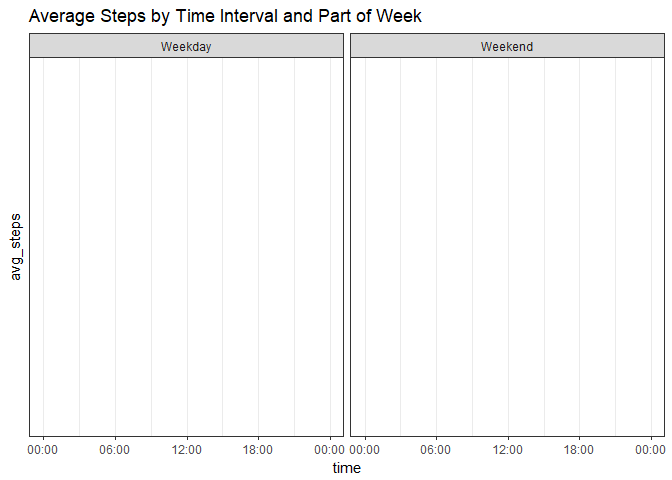
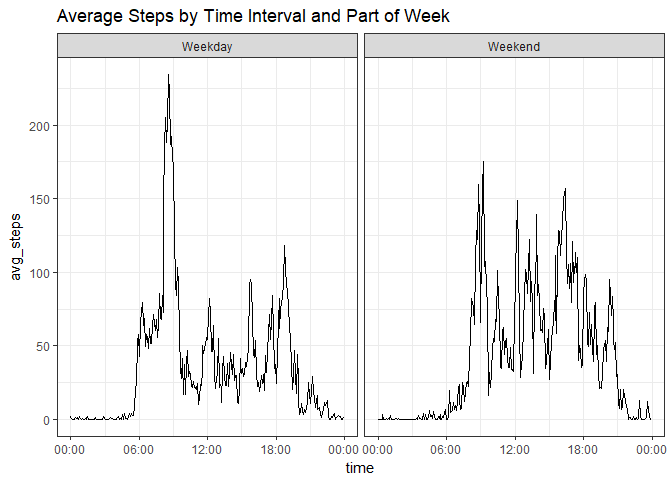
fixing minor issues

diff --git a/PA1_template.html b/PA1_template.html
@@ -126,6 +126,31 @@ $(document).ready(function () {
 
 <div id="loading-and-preprocessing-the-data" class="section level2">
 <h2>Loading and preprocessing the data</h2>
+<pre class="r"><code>knitr::opts_chunk$set(echo = TRUE)
+library(tidyverse)</code></pre>
+<pre><code>## -- Attaching packages ------------------------------------------------------------- tidyverse 1.2.1 --</code></pre>
+<pre><code>## v ggplot2 2.2.1     v purrr   0.2.4
+## v tibble  1.4.2     v dplyr   0.7.4
+## v tidyr   0.7.2     v stringr 1.2.0
+## v readr   1.1.1     v forcats 0.2.0</code></pre>
+<pre><code>## -- Conflicts ---------------------------------------------------------------- tidyverse_conflicts() --
+## x dplyr::filter() masks stats::filter()
+## x dplyr::lag()    masks stats::lag()</code></pre>
+<pre class="r"><code>library(lubridate)</code></pre>
+<pre><code>## 
+## Attaching package: 'lubridate'</code></pre>
+<pre><code>## The following object is masked from 'package:base':
+## 
+##     date</code></pre>
+<pre class="r"><code>library(scales)</code></pre>
+<pre><code>## 
+## Attaching package: 'scales'</code></pre>
+<pre><code>## The following object is masked from 'package:purrr':
+## 
+##     discard</code></pre>
+<pre><code>## The following object is masked from 'package:readr':
+## 
+##     col_factor</code></pre>
 <pre class="r"><code>unzip(&quot;activity.zip&quot;)
 
 activity &lt;- read_csv('activity.csv')</code></pre>
@@ -137,7 +162,7 @@ activity &lt;- read_csv('activity.csv')</code></pre>
 ## )</code></pre>
 <pre class="r"><code>file.remove('activity.csv') ##clean up</code></pre>
 <pre><code>## [1] TRUE</code></pre>
-<p>Let’s make more detailed time variables. Since the interval variable is just the number of minutes, I am going to combine the date and interval fields into a complete datetime variable. While we are messing around with dates, I am going to extract a prettier time of day field and add a weekday variable.</p>
+<p>Let’s make more detailed time variables. I am going to turn the interval column into a more attractive date field and extract the day of the week from the date column.</p>
 <pre class="r"><code>activity &lt;- activity %&gt;%
   mutate(time = gsub('^([0-9]{2})([0-9]+)$', '\\1:\\2', 
                      str_pad(interval,4,'left','0')),
@@ -147,26 +172,26 @@ activity &lt;- read_csv('activity.csv')</code></pre>
 <pre><code>## # A tibble: 20 x 5
 ##    steps date       interval time  weekday  
 ##    &lt;int&gt; &lt;date&gt;        &lt;int&gt; &lt;chr&gt; &lt;chr&gt;    
-##  1     0 2012-10-24      415 04:15 Wednesday
-##  2    15 2012-11-22     1450 14:50 Thursday 
-##  3     0 2012-10-15     1625 16:25 Monday   
-##  4    NA 2012-11-10      635 06:35 Saturday 
-##  5     0 2012-10-16       35 00:35 Tuesday  
-##  6    NA 2012-10-08      325 03:25 Monday   
-##  7    NA 2012-11-04     1515 15:15 Sunday   
-##  8     0 2012-11-08     1055 10:55 Thursday 
-##  9     0 2012-11-02      230 02:30 Friday   
-## 10     0 2012-10-27     2335 23:35 Saturday 
-## 11     0 2012-10-02     1245 12:45 Tuesday  
-## 12     0 2012-10-03      320 03:20 Wednesday
-## 13    NA 2012-11-04      715 07:15 Sunday   
-## 14     0 2012-11-22     2220 22:20 Thursday 
-## 15   203 2012-10-28      805 08:05 Sunday   
-## 16    NA 2012-11-30     1105 11:05 Friday   
-## 17     0 2012-10-11     1720 17:20 Thursday 
-## 18   413 2012-10-03      600 06:00 Wednesday
-## 19    NA 2012-11-09     2230 22:30 Friday   
-## 20     0 2012-11-24      720 07:20 Saturday</code></pre>
+##  1   168 2012-10-05     1240 12:40 Friday   
+##  2     0 2012-11-03      955 09:55 Saturday 
+##  3     0 2012-10-22     2305 23:05 Monday   
+##  4     0 2012-11-25     2150 21:50 Sunday   
+##  5   404 2012-11-06      700 07:00 Tuesday  
+##  6     0 2012-10-14     1810 18:10 Sunday   
+##  7     0 2012-11-25     1735 17:35 Sunday   
+##  8     0 2012-10-04       55 00:55 Thursday 
+##  9     0 2012-11-19      515 05:15 Monday   
+## 10     0 2012-11-13      340 03:40 Tuesday  
+## 11     0 2012-11-21     1540 15:40 Wednesday
+## 12     0 2012-10-26      930 09:30 Friday   
+## 13     0 2012-10-22      345 03:45 Monday   
+## 14     0 2012-11-18       45 00:45 Sunday   
+## 15    NA 2012-11-04      840 08:40 Sunday   
+## 16     0 2012-10-19      155 01:55 Friday   
+## 17    NA 2012-11-04     1755 17:55 Sunday   
+## 18     0 2012-10-14     1950 19:50 Sunday   
+## 19     0 2012-10-30     2150 21:50 Tuesday  
+## 20     0 2012-10-19       20 00:20 Friday</code></pre>
 </div>
 <div id="what-is-mean-total-number-of-steps-taken-per-day" class="section level2">
 <h2>What is mean total number of steps taken per day?</h2>
@@ -284,10 +309,10 @@ med_steps &lt;- median(daily_tot_steps$total_steps)</code></pre>
 
 weekend_ts_data &lt;- activity %&gt;%
   group_by(part_of_week, time) %&gt;%
-  summarise(avg_steps = mean(steps)) %&gt;%
+  summarise(avg_steps = mean(steps, na.rm = TRUE)) %&gt;%
   ungroup
 
-weekend_ts_data$time &lt;- strptime(weekend_ts_data$time, &quot;%H:%M&quot;, tz = 'UTC')
+weekend_ts_data$time &lt;- as_datetime(strptime(weekend_ts_data$time, &quot;%H:%M&quot;, tz = 'UTC'))
 
 ggplot(weekend_ts_data, aes(time, avg_steps)) +
   geom_line() +
@@ -295,7 +320,7 @@ ggplot(weekend_ts_data, aes(time, avg_steps)) +
   scale_x_datetime(date_labels = &quot;%H:%M&quot;) +
   theme_bw() +
   ggtitle('Average Steps by Time Interval and Part of Week')</code></pre>
[2 lines of base64/hex data omitted]
 <p>It looks like there may be a slight difference between the step patterns during the weekdays compared to weekends. The weekend results are volatile, but it would appear that the steps are higher on average and evenly distributed throughout the middle of the day. During the week, the steps appear to be lower on average and are more concentrated early in the day.</p>
 </div>
 

diff --git a/PA1_template.md b/PA1_template.md
@@ -10,6 +10,63 @@ output:
 ## Loading and preprocessing the data
 
 
+```r
+knitr::opts_chunk$set(echo = TRUE)
+library(tidyverse)
+```
+
+```
+## -- Attaching packages ------------------------------------------------------------- tidyverse 1.2.1 --
+```
+
+```
+## v ggplot2 2.2.1     v purrr   0.2.4
+## v tibble  1.4.2     v dplyr   0.7.4
+## v tidyr   0.7.2     v stringr 1.2.0
+## v readr   1.1.1     v forcats 0.2.0
+```
+
+```
+## -- Conflicts ---------------------------------------------------------------- tidyverse_conflicts() --
+## x dplyr::filter() masks stats::filter()
+## x dplyr::lag()    masks stats::lag()
+```
+
+```r
+library(lubridate)
+```
+
+```
+## 
+## Attaching package: 'lubridate'
+```
+
+```
+## The following object is masked from 'package:base':
+## 
+##     date
+```
+
+```r
+library(scales)
+```
+
+```
+## 
+## Attaching package: 'scales'
+```
+
+```
+## The following object is masked from 'package:purrr':
+## 
+##     discard
+```
+
+```
+## The following object is masked from 'package:readr':
+## 
+##     col_factor
+```
 
 
 ```r
@@ -35,7 +92,7 @@ file.remove('activity.csv') ##clean up
 ## [1] TRUE
 ```
 
-Let's make more detailed time variables. Since the interval variable is just the number of minutes, I am going to combine the date and interval fields into a complete datetime variable.  While we are messing around with dates, I am going to extract a prettier time of day field and add a weekday variable.
+Let's make more detailed time variables. I am going to turn the interval column into a more attractive date field and extract the day of the week from the date column.
 
 
 ```r
@@ -55,26 +112,26 @@ activity %>% sample_n(20)
 ## # A tibble: 20 x 5
 ##    steps date       interval time  weekday  
 ##    <int> <date>        <int> <chr> <chr>    
-##  1     0 2012-10-24      415 04:15 Wednesday
-##  2    15 2012-11-22     1450 14:50 Thursday 
-##  3     0 2012-10-15     1625 16:25 Monday   
-##  4    NA 2012-11-10      635 06:35 Saturday 
-##  5     0 2012-10-16       35 00:35 Tuesday  
-##  6    NA 2012-10-08      325 03:25 Monday   
-##  7    NA 2012-11-04     1515 15:15 Sunday   
-##  8     0 2012-11-08     1055 10:55 Thursday 
-##  9     0 2012-11-02      230 02:30 Friday   
-## 10     0 2012-10-27     2335 23:35 Saturday 
-## 11     0 2012-10-02     1245 12:45 Tuesday  
-## 12     0 2012-10-03      320 03:20 Wednesday
-## 13    NA 2012-11-04      715 07:15 Sunday   
-## 14     0 2012-11-22     2220 22:20 Thursday 
-## 15   203 2012-10-28      805 08:05 Sunday   
-## 16    NA 2012-11-30     1105 11:05 Friday   
-## 17     0 2012-10-11     1720 17:20 Thursday 
-## 18   413 2012-10-03      600 06:00 Wednesday
-## 19    NA 2012-11-09     2230 22:30 Friday   
-## 20     0 2012-11-24      720 07:20 Saturday
+##  1   168 2012-10-05     1240 12:40 Friday   
+##  2     0 2012-11-03      955 09:55 Saturday 
+##  3     0 2012-10-22     2305 23:05 Monday   
+##  4     0 2012-11-25     2150 21:50 Sunday   
+##  5   404 2012-11-06      700 07:00 Tuesday  
+##  6     0 2012-10-14     1810 18:10 Sunday   
+##  7     0 2012-11-25     1735 17:35 Sunday   
+##  8     0 2012-10-04       55 00:55 Thursday 
+##  9     0 2012-11-19      515 05:15 Monday   
+## 10     0 2012-11-13      340 03:40 Tuesday  
+## 11     0 2012-11-21     1540 15:40 Wednesday
+## 12     0 2012-10-26      930 09:30 Friday   
+## 13     0 2012-10-22      345 03:45 Monday   
+## 14     0 2012-11-18       45 00:45 Sunday   
+## 15    NA 2012-11-04      840 08:40 Sunday   
+## 16     0 2012-10-19      155 01:55 Friday   
+## 17    NA 2012-11-04     1755 17:55 Sunday   
+## 18     0 2012-10-14     1950 19:50 Sunday   
+## 19     0 2012-10-30     2150 21:50 Tuesday  
+## 20     0 2012-10-19       20 00:20 Friday
 ```
 
 
@@ -245,10 +302,10 @@ activity <- activity %>%
 
 weekend_ts_data <- activity %>%
   group_by(part_of_week, time) %>%
-  summarise(avg_steps = mean(steps)) %>%
+  summarise(avg_steps = mean(steps, na.rm = TRUE)) %>%
   ungroup
 
-weekend_ts_data$time <- strptime(weekend_ts_data$time, "%H:%M", tz = 'UTC')
+weekend_ts_data$time <- as_datetime(strptime(weekend_ts_data$time, "%H:%M", tz = 'UTC'))
 
 ggplot(weekend_ts_data, aes(time, avg_steps)) +
   geom_line() +
